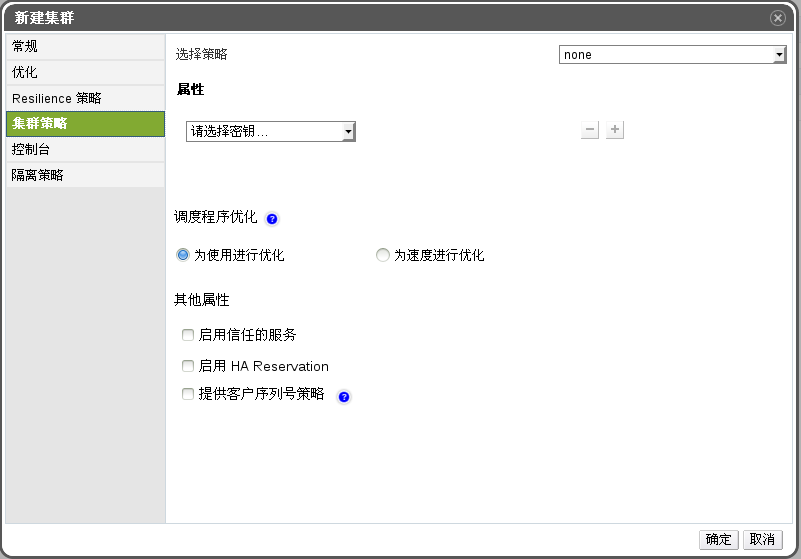
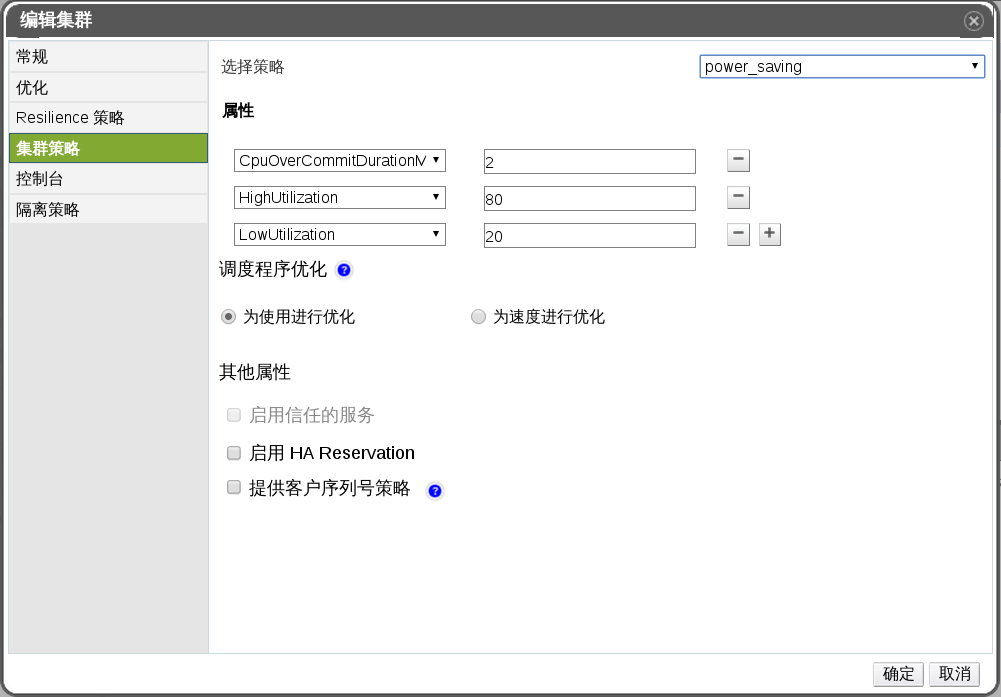
admin guide: review chapter: 集群

diff --git a/administration-guide/集群/优化设置介绍.md b/administration-guide/集群/优化设置介绍.md
@@ -1,16 +1,19 @@
 # 优化选项解释
 
-内存页共享允许虚拟机使用的内存可达到其物理保证内存的两倍之多，这是利用一些其它虚拟机空闲出来的内存实现的。当然想要实现这样的功能是有条件的，那就是在 EayunOS 企业级虚拟化环境中，不是所有的虚拟机都同时处于满负荷运转的状态，这样才会允许那些暂未使用的内存分配到一个特定虚拟机中。
+内存页共享允许虚拟机通过使用其它虚拟机未在使用的内存，使得这个虚拟机可以使用高达为其分配的内存的两倍之多。当然想要实现这样的功能是有条件的，那就是在 EayunOS 企业级虚拟化环境中，不是所有虚拟机都同时处于满负荷运转的状态，这样才会允许那些暂未使用的内存分配到一个特定虚拟机上。
 
-CPU 线程处理允许主机运行这样的虚拟机，即虚拟机的 CPU 内核数多于这个主机内核数，这主要用于CPU负载不高的情形，在某种程度上可以降低大量的需要运行的虚拟机对硬件的要求。当然也需要考虑到虚拟机所运行的主机 CPU 的拓朴结构，以免出现不能正常运行的情况，尤其是虚拟机的 CPU 内核数量介于主机 CPU 内核数量和主机线程数量之间。
+CPU 线程处理技术允许主机上运行的虚拟机的 CPU 内核总数多于这台主机的内核总数，这个技术对那些不需要大量使用 CPU 资源的环境非常有用，
+并允许大量的即将运行的虚拟机能够减小他们对硬件的要求。这个技术还可以让虚拟机运行一些在一般情况下无法实现的 CPU 的拓朴结构，尤其是在虚拟机的处理器的内核数量多于主机 CPU 内核数量且少于主机线程数量的时候。
 
 ![集群图示](../images/EayunOS_Optimization_Settings.png)
 
-下面的表格是在*新建集群*或*编辑集群*窗口中*优化*tab下设置详细描述：
+下面的表格描述了**新建集群**或**编辑集群**窗口中**优化**标签中的设置。
 
-|填充项|描述/操作|
-|------|---------|
-|内存优化|-   *无 - 禁用内存页面共享*:即不使用 内存共享。<br/><br/>-   *用于服务器负载 - 设置页面共享为 150%*<br/>    在集群的每台主机设置内存可共享上限为150%.<br/><br/>-   *用于桌面负载 - 设置页面共享为 200%*<br/>    在集群的每台主机设置内存可共享上限为200%.<br/><br/>|
-|CPU线程|选择*将线程用作内核*多选框，则表示可以 让虚拟机拥有的总的CPU core数量大于主机所拥有的数量。<br/><br/>主机的超线程可以被虚拟机当作core来使用，例如，一台主机拥有 12个core的超线程x2的CPU，则共24个超线程，那么虚拟机就可拥有 24个core，但是带来的后果就是，CPU负载的计算算法将是平时的2 倍。|
-|内存Balloon|选择*启用内存 Balloon 优化*多选框，则表示 在此集群中所有的主机激活内存超分配，一旦此选项生效，则内存超 分配管理程序（MoM）就会启动Bollooning，Bollooning本身会有为每 个虚拟机赋予一预先设定的值。<br/><br/>Bollooning运行的前提是，运行在虚拟机客户操作系统里的驱动必须是 工作的，在OVIRT中，除非用户手动删除，默认创建的虚拟机都会有 Bollooning的设备。<br/><br/>当设置完成后，当集群内的主机状态变为*up*时， 都会更新Bolloon的策略。<br/><br/>另外需要特别强调的一点是，在某些场景下bollooning和KSM会有冲突。 大多数情况下，MoM会尝试调整bolloon大小将冲突降至最小，但还是有 bollooning会引起虚拟机性能的次优，这里建立管理员慎用bollooning 优化。|
-|KSM 控制|当选择了*启用 KSM*勾选框时能够在必要时使用 MoM 运行内核内存页共享（KSM），并且在当内存页共享产出的空余内存所获得的好处大于因此而要增加的CPU负担时也会运行。|
+**优化设置**
+
+| **填充项** | **描述/操作** |
+| ---------- | ------------- |
+| **内存优化** |-   **无 - 禁用内存页面共享**：禁用内存页共享。<br/><br/>-   **用于服务器负载 - 设置页面共享为 150%**：将内存页共享的阀值设置为每个主机系统内存的 150%。<br/><br/>-   **用于桌面负载 - 设置页面共享为 200%**：将内存页共享的阀值设置为每个主机系统内存的 200%。<br/><br/>|
+| **CPU 线程** | 选择**将线程用作内核**复选框，则表示允许主机运行 CPU 内核总数多于主机 CPU 内核数量的虚拟机。<br/><br/>暴露的主机线程可以被当作虚拟机能够使用的 CPU 内核。例如，一个 24 核的系统，且每个 CPU 内核有 2 个线程，即这个系统共有48 个线程，也就是说其上运行的每个虚拟机都可以有 48 个 CPU 内核。那么虚拟机就可拥有 24个core，但是带来的后果就是，CPU负载的计算算法将是平时的2 倍。|
+| **内存 Balloon** | 选择**启用内存 Balloon 优化**复选框表示允许运行在集群中主机上的虚拟机可以有“内存过量使用”的功能。当该选项启用后  Memory Overcommit Manager (MoM) 会在情况允许的情况下开启“ 气球操作” (Ballooning)，它的上限是每台虚拟机所具有的内存大小。<br/><br/>Bollooning 运行的前提是，虚拟机需要有气球 (balloon) 设备以及相应的驱动器。在版本在 3.2 及以上的集群中，每台虚拟机都会有气球设备，除非您手动删除了它。该集群中的主机状态变为 **Up** 时，它就会接收到一个气球策略更新。<br/><br/>另外需要特别强调一点，在某些场景下 bollooning 和 KSM 可能会有冲突。一旦冲突发生了，MoM 会尝试调整 balloon 的大小来减小冲突。另外，在其它的场景下 ballooning 还可能会引起虚拟机性能的下降。因此我们建议您谨慎使用 ballooning 优化功能。 |
+| **KSM 控制** |选择**启用 KSM** 复选框将会允许 MoM 在必要的情况下且运行 Kernel Same-page Merging（KSM），还有如果 KSM 节约内存的好处要远大于为此付出的消耗 CPU 的代价时，也要运行 KSM。 |

diff --git a/administration-guide/集群/集群常规配置的解释.md b/administration-guide/集群/集群常规配置的解释.md
@@ -2,23 +2,23 @@
 
 ![新建集群窗口](../images/EayunOS_New_Cluster_Window.png)
 
-当输入非正确的字段，会在用户点击*确定*按钮时出错, 出错
-的部分会显示为菊黄色的，且无法进行下一步的操作，通常情况下会提示预期
-值或值范围不对。
+**新建集群**
 
-下面的表格是在*新建集群*或*编辑集群*窗口中*通用*tab下设置详细描述：
+下面的表格描述了**新建集群**或**编辑集群**窗口中**常规**标签下的设置：
 
-|填充项|描述/操作|
-|------|---------|
-|数据中心|集群将加入的数据中心。|
-|名称|集群的名称，可包含40个字符，尽量保证是独一无 二的，可以是任意的大、小写字母，数字，短横线， 下划线。|
-|描述|集群的详细描述，OVIRT建议填写但不是强制性的。|
-|CPU名称|集群的CPU类型，可从下列中选出：<br/>-   Intel Conroe Family<br/><br/>-   Intel Penryn Family<br/><br/>-   Intel Nehalem Family<br/><br/>-   Intel Westmere Family<br/><br/>-   Intel SandyBridge Family<br/><br/>-   Intel Haswell<br/><br/>-   AMD Opteron G1<br/><br/>-   AMD Opteron G2<br/><br/>-   AMD Opteron G3<br/><br/>-   AMD Opteron G4<br/><br/>-   AMD Opteron G5<br/><br/>集群内所有主机必须运行在同一型号的CPU（Intel或AMD）。 且一旦集群建立后不允许变动。CPU的类型选择尽可 能的选择低代的，比如，一个拥有*Intel Haswell*的主机是可以加入到类型为*Intel Westmere Family*的集群中的，相反，*Intel Nehalem Family*就不可以，且只能发挥低代 的CPU的特性。|
-|兼容版本|OVIRT的版本号，你可以从以下选择：<br/>-   3.0<br/><br/>-   3.1<br/><br/>-   3.2<br/><br/>-   3.3<br/><br/>用户不可以将集群的版本设置低于所在数据中心的版本。|
-|启用Virt服务|如果这个单选框选中，运行在此集群下的主机被用于运行 虚拟机。|
-|启用Gluster服务|如果选中此单选框，运行在此集群下的主机将用于OVIRT\_STORAGE 的节点，而不是运行虚拟机。且用户不能将OVIRT Hypervisor Node加入到此集群中。|
-|导入现有的gluster集群配置|此可选项仅用于当*启用Gluster服务* 被选中时，此属性可以让用户导入一个已有的gluster集群， 且其所包含的所有主机。<br/><br/>下列属性是要导入主机时填写的内容：<br/><br/>-   *地址*:输入Gluster主机的IP 地址或FQDN的名称。<br/><br/>-   *SSH指印*:OVIRT会尝试取得主机的<br/>    指印，以确保用户连接的是真需要连接的主机<br/><br/>-   *密码*:输入主机的root用户密码。<br/><br/>|
+**常规集群设置**
 
-*请参考*.
-?
+| 项 | 描述/操作 |
+| -- | --------- |
+| **数据中心** | 集群所在的数据中心。 |
+| **名称** | 集群的名称。这个文本框最多可包含 40 个字符且要保证是独一无二的名称，可以是任意的大小写字母，数字，短横线和下划线的组合。 |
+| **描述** | 集群的描述。我们建议您填写，但这并不是强制性的。 |
+| **CPU 名称** | 集群的 CPU 类型，可从下列中选出（顺序：由高到低）：<br/><br/>-   Intel Conroe Family<br/><br/>-   Intel Penryn Family<br/><br/>-   Intel Nehalem Family<br/><br/>-   Intel Westmere Family<br/><br/>-   Intel SandyBridge Family<br/><br/>-   Intel Haswell<br/><br/>-   AMD Opteron G1<br/><br/>-   AMD Opteron G2<br/><br/>-   AMD Opteron G3<br/><br/>-   AMD Opteron G4<br/><br/>-   AMD Opteron G5<br/><br/>一个集群内的所有主机必须使用相同类型的 CPU (Intel 或 AMD); 一旦集群被成功创建后，其 CPU 类型将不允许变动。关于 CPU 的类型，请您尽可能选择低级别的主机的 CPU 类型。例如，一个 **Intel SandyBridge** 的主机可以附加到一个 **Intel Penryn** 的集群中的，相反，**Intel Conroe** 的主机则不可以附加到 **Inter Penryn** 中。如果集群中的主机的 CPU 类型不同，那么只有所有类型都具有的 CPU 指令集才可以被使用。 |
+| **兼容版本** | EayunOS 企业级虚拟化的版本号，你可以从以下选择：<br/><br/>-   3.0<br/><br/>-   3.1<br/><br/>-   3.2<br/><br/>-   3.3<br/><br/>-   3.5<br/><br/>您不能选择比数据中心的版本更低的版本。 |
+| **启用Virt服务** | 如果您选择了此单选框，在该集群下的主机会被用于运行虚拟机。 |
+| **启用Gluster服务** | 如果您选择了此单选框，那么运行在该集群下的主机会作为 EayunOS 存储服务器节点，而不是用来运行虚拟机。且用户不能将 EayunOS 企业级虚拟化宿主机添加到该集群中。 |
+| **启用设置虚拟机维护的理由** | 如果您选择了这个单选框，那么如果您想要对虚拟机进行 **关机** 或者 **断电** 操作的话，您必须写明您要这个做的原因，以便其它管理员可以理解您的行为。 |
+| **所选随机数生成器的源** | 集群中的宿主机可以将随机数生成器提供给虚拟机使用。**/dev/random** 可以生成高随机性的公钥或一次性密码本。如果熵池（Linux 内核维护了一个熵池用来收集来自设备驱动程序和其它来源的环境噪音）空了，对 **/dev/random** 的读操作将会被阻塞，直到收集到了足够的环境噪声为止，它是真正的随机数发生器。对于 KVM 虚拟机来说，存在一个半虚拟化设备 virtio-rng 作为硬件随机数产生器。virtio-rng 设备会读取 Host 的随机数源并且填充到虚拟机的熵池中。通常情况下使用 **/dev/random** 作为输入源。当 Host 系统中存在 hwrng 的情况下你可以用 **/dev/hwrng** 来作为 virtio-rng（对于 KVM 虚拟机来说，存在一个半虚拟化设备 virtio-rng 作为硬件随机数产生器）的输入源。  |
 
+![change_cpu.png](../images/change_cpu.png)
+**修改集群 CPU 级别**

diff --git a/administration-guide/集群/集群策略介绍.md b/administration-guide/集群/集群策略介绍.md
@@ -12,18 +12,18 @@
 
 **集群策略标签下的属性**
 
-|填充项/标签|描述/操作|
-|-----------|---------|
-|none|将策略设置为 **None**，即表示不在主机间采用任何负载或电源策略。此为默认选项。|
-|evenly_distributed|在集群的所有主机中平均分配 CPU 处理负载。如果一台主机达到了其预先定义的服务级别，那么负载在其上的虚拟机将无法开启。|
-|power_saving|分配CPU的处理负载在可用主机，以减少对没有得到充分利 用主机的功耗。当主机的CPU负载低到预设的下限值时，且 超出预定义的时间间隔，则将这台主机中的所有虚拟机迁移 到其它主机中，此主机可以关闭电源。。当主机的 负载达到预先定义的上限值时，就无法在此主机启动虚拟机。|
+| **填充项/标签** | **描述/操作** |
+| --------------- | ------------- |
+| **None** | 将策略设置为 **None**，即表示不在主机间采用任何负载或电源策略。此为默认选项。|
+| **Evenly_distributed** | 在集群的所有主机中平均分配 CPU 处理负载。如果一台主机达到了其预先定义的服务级别，那么负载在其上的虚拟机将无法开启。|
+| **Power_saving** | 分配CPU的处理负载在可用主机，以减少对没有得到充分利 用主机的功耗。当主机的CPU负载低到预设的下限值时，且 超出预定义的时间间隔，则将这台主机中的所有虚拟机迁移 到其它主机中，此主机可以关闭电源。。当主机的 负载达到预先定义的上限值时，就无法在此主机启动虚拟机。|
 |vm_evenly_distributed|以虚拟机的数量为权值在集群中平均分配运行的虚拟机。<br/><br/>- *HighVmCount*：设置每一台主机上面能够运行的虚拟机数量。当运行的虚拟机数量超过该值将视该台主机为过载。<br/><br/>- *MigrationThreshold*：定义了虚拟机将会执行迁移的虚拟机数量缓冲区域。该区域的边界由负载最高与负载最低的主机所运行的虚拟机数量定义，当集群内所有的主机所运行的虚拟机数量在该缓冲区域内时，该集群被视为平衡状态。<br/><br/>- *SpmVmGrace*：定义了当主机为 SPM 时，计算集群策略时需要给该主机空余的虚拟机的个数，这样，SPM 主机将比其它主机有相对低的负载，所以，该值定义了 SPM 主机能够运行的虚拟机比非 SPM 主机能运行的虚拟机的数量少的个数。<br/><br/>当集群中有任何一台主机运行了比*HighVmCount*数量多的虚拟机，或者任何一台主机运行的虚拟机的数量不在*MigrationThreshold*缓冲屈与范围内时，该集群被视为不平衡的。|
-|CpuOverCommitDurationMinutes|在集群策略生效之前，主机中运行的负载超过或低于预设值的 时间间隔(以分钟为单位）。最大99分钟。在规定的时间间隔内 可以防止由于临时高峰负载而启动集群策略，从而导致作出不 必要的迁移。|
-|HighUtilization|CPU的利用百分比。如果主机的CPU负载运行在预设值或之上，且超出 预订时间间隔，OVIRT管理程序会迁移虚拟机到集群中其他 主机中，直到CPU的负载低于这个预设值。|
-|LowUtilization|CPU的利用百分比。如果主机的CPU负载低于这个预设值，且超出预订 时间间隔，OVIRT管理程序会将虚拟机迁移到集群中其他主机， 管理程序不会关闭此主机，管理员必须手动去关闭。|
-|调度程序优化|基于主机的 权值/顺序 作调度优化。<br/><br/>- *Optimize for Utilization*：在调度程序中包含权重模块以能够选择最合适的主机。<br/><br/>- *Optimize for Speed*：当有多余10个集群优化请求的时候跳过调度程序的权重模块。|
-|启用信任的服务|是否激活与OpenAttestation服务的集成。在激活之前，请使用*engine-config*工具配置OpenAttestation服务的细节。|
-|启用HA Reservation|允许使用管理端监控集群的负载以便能让高科用的虚拟机能运行。管理端能够确保集群内有合适空余资源的主机存在，以防在高可用虚拟机所运行的主机意外故障时能够有迁移到该主机中去。|
+| **CpuOverCommitDurationMinutes** |在集群策略生效之前，主机中运行的负载超过或低于预设值的 时间间隔(以分钟为单位）。最大99分钟。在规定的时间间隔内 可以防止由于临时高峰负载而启动集群策略，从而导致作出不 必要的迁移。|
+| **HighUtilization** |CPU的利用百分比。如果主机的CPU负载运行在预设值或之上，且超出 预订时间间隔，OVIRT管理程序会迁移虚拟机到集群中其他 主机中，直到CPU的负载低于这个预设值。|
+| **LowUtilization** |CPU的利用百分比。如果主机的CPU负载低于这个预设值，且超出预订 时间间隔，OVIRT管理程序会将虚拟机迁移到集群中其他主机， 管理程序不会关闭此主机，管理员必须手动去关闭。|
+| **调度程序优化** |基于主机的 权值/顺序 作调度优化。<br/><br/>- *Optimize for Utilization*：在调度程序中包含权重模块以能够选择最合适的主机。<br/><br/>- *Optimize for Speed*：当有多余10个集群优化请求的时候跳过调度程序的权重模块。|
+| **启用信任的服务** |是否激活与OpenAttestation服务的集成。在激活之前，请使用*engine-config*工具配置OpenAttestation服务的细节。|
+| **启用HA Reservation** |允许使用管理端监控集群的负载以便能让高科用的虚拟机能运行。管理端能够确保集群内有合适空余资源的主机存在，以防在高可用虚拟机所运行的主机意外故障时能够有迁移到该主机中去。|
 |<font color="red">提供客户序列号策略</font>||
 > **Note**
 >

diff --git a/administration-guide/集群/在数据中心或者集群中创建一个新的逻辑网络.md b/administration-guide/集群/在数据中心或者集群中创建一个新的逻辑网络.md
@@ -1,34 +1,38 @@
 # 在数据中心或者集群中创建一个新的逻辑网络 
 
 **摘要**<br/>
-以下步骤为在数据中心或者集群中创建和定义逻辑网络。
+在一个数据中心或者一个数据中心下的集群中创建一个逻辑网络并定义它的使用。
 
-使用**数据中心**或**集群**资源列表 或树形结构或搜索功能，选中结果列表。
+**在一个数据中心或者集群中创建一个新的逻辑网络**
 
-点击*逻辑网络*,会自动列出现存在的逻辑网络。
+1. 使用**数据中心**或**集群**资源列表，树形模式或搜索功能，在结果列表中找出并选择一个数据中心或者一个集群。
 
-在**数据中心**的详细列表中，点击**新建** 打开**新建逻辑网络**窗口；在**集群**的详细列表中，点击*添加网络*打开*新建逻辑网络*。
+2. 点击详细面板中的**逻辑网络**标签，会自动列出现存在的逻辑网络。
 
-![负载均衡策略设置](../images/EayunOS_Create_New_Logic_Network.png)
+3. 如果您在第 2 步中选择了**数据中心**，那么请在该详情面板中，点击**新建**，会弹出**新建逻辑网络**窗口；如果您在第 2 步中选择了**集群**，那么请在该详情面板中，点击**添加网络**，会弹出**新建逻辑网络**。
 
-为逻辑网络输入*名称*,*描述*, *注释*。
+4. 为逻辑网络输入**名称**，**描述**和 **注释**。
 
-在*导出*项中，选择*在外部供应商上创建*,在*外部供应商*的下拉列表框中选择已
-经建立好的外部供应商，并输入*网络标签*。
+5. 在**导出**项中，选择**在外部供应商上创建**复选框，以便在外部供应商上创建逻辑网络。从**外部供应商**的下拉菜单中选择**外部供应商**。
 
-选择*启用 VLAN 标签*,*虚拟机网络* ,*覆盖 MTU*,以激活对应的属性。
+6. 在 **Physical Network** 复选框旁边的文本框中输入一个映射值。为正在执行的网络对象上找出其对应的物理网络。OpenStack 网络 API 不能为获取可用的物理网络列表暴露出任何设备。作为示例，在 Open vSwitch 插件中，这是一个象征性的名字，它通过 Open vSwitch 插件的配置文件将其映射到每个计算节点的具体网桥上。该选项只有在勾选了在外部供应商上创建这个复选框之后，才可用。
 
-在*集群*标签下，选择欲将网络分配给某个集群，用户
-也可指定此逻辑网络是必需的。
+7. 在**网络参数**项中的**网络标签**复选框旁边的文本框中输入相应的值。允许您为网络指定一个新的标签或者从一个已经存在的并负载在主机网络接口上的标签中选择其中一个。如果您选择了一个已经存在的标签，逻辑网络会被自动分配给带有这个标签的所有主机网络接口。该选项在勾选了在外部供应商上创建这个复选框之后是不可用的。
 
-在*配置集*标签下，为逻辑网络分配*vNIC profiles*。
+8. 选择**启用 VLAN 标签**，**虚拟机网络**和**MTU**，来激活这些选项。
 
-点击*确定*。
+9. 在**集群**标签下，选择欲将网络分配给的那个集群，您还可以指定该逻辑网络是否是必需网络。
 
-*结果*.
-用户已经定义所谓前提项的逻辑网络资源，此时可以给此集群中的主机添加此资源。
+10. 如果您在**常规**选项卡中选择了**导出**的**在外部供应商上创建**这个复选框，那么您会在左边的标签栏中发现多了一个**子网**标签。点击**创建子网**，并在输入相应的**名称**，**CIDR** 并为逻辑网络将要提供的子网选择一个 **IP 版本**。
+
+11. 在 **vNIC 配置集**标签下，为必需的逻辑网络分配 **vNIC 配置集**。
+
+12. 点击**确定**。
+
+**结果**<br/>
+您在数据中心或集群中定义了一个逻辑网络资源。如果您为这个逻辑网络加了标签，它将会被自动加入到所有带有这个标签的主机网络接口中。
 
 > **Note**
 >
-> 当新建一逻辑网络或者是修改现有的逻辑网络用于显示网络时，原来使用此网络的
-> 虚拟机必须重启后，此网络才可用。
+>如果您创建了一个新的逻辑网络或者对一个已经存在的且作为显示网络的逻辑网络做一些更改。任何一个正在运行的且使用了该网络的虚拟机必须要在>网络变为可用或者更改生效之前即行重启操作。
+

diff --git a/administration-guide/集群/为一个集群管理系统权限.md b/administration-guide/集群/为一个集群管理系统权限.md
@@ -1,31 +1,19 @@
 # 集群下的系统管理权限
 
-作为*超级用户*的系统管理员，掌管着整个管理门户的方方面面。
-也包括指定一些管理的角色给其他用户，得到授权的用户有了受限的管理角色，仅对
-指定的资源有权限操作，例如：一个*DataCenterAdmin*角色拥有
-的管理分配权仅限于他被分配到的数据中心，一个*ClusterAdmin*
-角色拥有的管理分配权仅限于他被分配到的集群。
+作为 **SuperUser**，系统管理员掌管着管理门户的各个方面。更多具体的管理角色可以分配给其他用户。这些有一定限制的管理员角色可以为用户授予将他们限制在一个具体资源中的管理权限。例如，一个具有 **DataCenterAdmin** 角色的用户具有对已分配的除与存储域有关的内容以外的数据中心中的所有内容进行操作的权限，且一个具有 **ClusterAdmin** 角色的用户对已分配的集群具有管理员权限。
 
-集群管理员是数据中心唯一指定的管理员角色，应用于当一个数据中心拥有多个集群，而且
-每个集群都需要指定一名特定的管理员。*ClusterAdmin*角色的继承
-模式：某用户被赋予某集群的集群管理员角色，那么他拥有操作此集群下所有的对象。
-在OVIRT管理员门户顶部点击*配置*按钮，可以分配一集群管理员
-角色，此角色可以操作整个虚拟化环境下所有集群。
+一个集群管理员仅对特定的集群具有管理员权限。这一点对于多集群的数据中心非常有用处，因为每个集群都需要一个系统管理员。**ClusterAdmin** 角色具有分级模式：一个被赋予了集群管理员角色的用户可以管理集群中的方方面面。点击标题栏中的**配置**按钮来为环境的所有集群配置一个集群管理员。
 
 集群管理员角色拥有如下操作权限：
 
--   创建和删除集群
+* 创建并删除相关集群。
 
--   在此集群下添加和删除主机，虚拟机，以及桌面池。
+* 在该集群下添加和删除主机，虚拟机和池。
 
--   编辑虚拟机的用户权限。
+* 为该集群下的虚拟机编辑用户权限。
 
 > **Note**
 >
-> 只能为已经存在的用户分配角色和权限。
+> 您只能为已经存在的用户分配角色和权限。
 
-当然OVIRT也支持重新定义系统默认的角色权限，可通过删除系统自带的管理员，然后在重新
-添加的方式来改变。
-
-*请参考：*.
-?
+如果您要更换一个系统管理员，您需要删除已经存在的系统管理员并添加一个新的系统管理员。

diff --git a/administration-guide/集群/弹性策略介绍.md b/administration-guide/集群/弹性策略介绍.md
@@ -1,21 +1,17 @@
-# 弹性策略的解释
+# Resilience 策略的解释
 
-弹性策略是根据主机宕机事件来设置虚拟机迁移的规则的意思。在同一集群的
-前提下，运行在突然宕机或者处于维护模式的主机上的虚拟机，会迁移到其
-它主机中, 具体迁移还依赖于集群的策略。
+Resilience 策略设置了在主机出现问题时虚拟机进行迁移的策略。如果一台主机发生了非预期关机或进入了维护模式的时候，那么其上运行的虚拟机会被迁移到本集群的其它主机上；具体迁移还依赖于集群策略。
 
 > **Note**
 >
-> 虚拟机迁移是严重依赖网络的。例如，一次将10多台虚拟机迁移到
-> 另外的主机，不仅会迁移很长的时间，还会影响到其他的性能，所以
-> 选择一个合适的策略。保守的做法就是不做任何的迁移，当然，如果用户
-> 拥有很多虚拟机，而有一些主机确实是负载非常的高（或重要），那么选
-> 择仅迁移配置了高可用属性的虚拟机也是个不错的选择。
+> 虚拟机迁移是一个网络密集型操作。例如，如果一个主机上运行了 10 多台虚拟机，把这些虚拟机迁移到其它主机上的操作会消耗大量的时间和资源。所以，您需要选择一个合适的策略来满足您的需求。如果您更青睐保守的做法，那就不做任何的虚拟机迁移，当然，如果您拥有很多虚拟机，但只有几台虚拟机运行着关键的工作，您可以设置迁移策略来让那些运行了较关键工作的虚拟机进行迁移。
 
-下面的表格是在*新建集群*或*编辑集群*窗口中*弹性策略*tab下设置详细描述：
+下面的表格是在**新建集群**或**编辑集群**窗口中**弹性策略**标签下设置详细描述：
 
-|填充项|描述/操作|
-|------|---------|
-|迁移虚拟机|根据预先定义的优先级顺序迁移全部的虚拟机。|
-|仅迁移高可用虚拟机|仅迁移高可用虚拟机，以防止超载其他主机。|
-|不迁移虚拟机|防止虚拟机被迁移|
+**弹性策略设置**
+
+| **项** | **描述/操作** |
+| ------ | ------------- |
+| **迁移虚拟机** | 根据预先定义的优先级顺序来迁移所有的虚拟机。 |
+| **只迁移高可用虚拟机** | 只迁移高可用虚拟机，以避免其它主机的负载。 |
+| **不迁移虚拟机** | 不让虚拟机进行迁移。 |

diff --git a/administration-guide/集群/在一个集群中设置主机的负载与电源管理策略.md b/administration-guide/集群/在一个集群中设置主机的负载与电源管理策略.md
@@ -1,1 +1,29 @@
 # 在一个集群中设置主机的负载与电源管理策略
+
+**概述**<br/>
+
+集群策略允许您指定可接受的 CPU 使用值（最高值和最低值），还可以设置 CPU 使用值超出可接受范围时会发生的事件。定义集群策略将会启动集群中主机间自动进行均衡负载的功能。
+
+如果主机的 CPU 使用值超过了 **HighUtilization** 的值，系统会将该台主机上的虚拟机到其它主机上，从而降低 CPU 负载。
+
+如果主机的 CPU 使用值低于 **LowUtilization** 的值，系统会将该台主机上运行的所有的虚拟机迁移到其它的主机上，从而可以关闭这台主机。如果哦系统再次需要这台主机的时候，它会被再次启动。
+
+**为主机设置负载和电源管理策略**
+
+1. 使用资源标签页，树形模式或搜索功能来查找并选择结果列表中的集群。
+
+2. 点击**编辑**按钮，弹出**编辑集群**窗口。
+![setting load and power managerment](../images/Setting_load_and_power_managerment.png)
+**编辑集群策略**
+3. 选择以下策略中的一个：
+* **none**
+* **evenly_distributed** - 在 **HighUtilization** 旁边的文本框中输入虚拟机需要进行迁移的 CPU 使用率的百分比值。在 **CpuOverCommitDurationMinutes** 旁边的文本框中输入一个时间间隔的值，当 CPU 的使用率超出了设定值时，系统会等待您设置的时间后才会触发相关策略中的操作。
+* **power saving** - 在 **HighUtilization** 旁边的文本框中输入主机被认为是处于低利用率状态的 CPU 使用率的百分比值。在 **HighUtilization** 旁边的文本框输入主机需要进行迁移的 CPU 使用率的百分比值。
+* **vm_evenly_distributed** - 在 **HighVmCount** 旁边的文本框中输入虚拟机数量的最大值。在 **MigrationThreshold** 旁边的文本框中输入一个用于迁移缓冲区的大小。在 **SpmVmGrace** 旁边的文本框中输入为 SPM 主机预留的虚拟机数量。
+
+4. 如果您正在使用一个 OpenAttestation 服务器来验证您的主机，并使用 **engine-config** 工具对服务器进行了设置，那么请您选择 **启用信任的服务** 复选框。
+
+5. 点击**确定**。
+
+**结果**<br/>
+您已经成功的对集群进行了编辑。

diff --git a/administration-guide/集群/创建集群.md b/administration-guide/集群/创建集群.md
@@ -17,7 +17,7 @@
 
 6. 如果您希望这个集群是作为虚拟环境使用的，那么请选择**启用 Virt 服务**；如果您希望这个集群要提供 Gluster 节点，那么请选择**启用 Gluster 服务**。需要注意的是您不能将 EayunOS 企业级虚拟化宿主机添加到一个支持 Gluster 服务的集群中。
 
-7. **启用设置虚拟机维护的理由** 允许您在将主机切换到维护模式的时候为此操作写明原因，以便其他管理员知道这么做的原因。
+7. 如果您选择了**启用设置虚拟机维护的理由**单选框，那么如果您想要对虚拟机进行 **关机** 或者 **断电** 操作的话，您必须写明您要>这个做的原因，以便其它管理员可以理解您的行为。
 
 8. 为集群选择 **所需的随机数生成器的源：**，选择复选框 **/dev/random** 或 **/dev/hwrng**。 
 
@@ -29,7 +29,7 @@
 
 12. 点击**确定**按钮完成创建集群操作，这时会弹出 **新建集群-引导操作**。
 
-13. **新建集群-引导操作**窗口会列出所有配置集群应该配置的选项。您可以通过点击**以后再配置**按钮，选择暂不配置，还可以现在就配置这些选项。您可以在任何时候通过选择集群并点引导操作键来对集群进行配置。
+13. **新建集群-引导操作**窗口会列出要为集群配置的所有实体。您可以通过点击**以后再配置**按钮，选择暂不配置，还可以现在就配置这些实体。您可以在任何时候通过选择集群并点击引导操作键继续对集群进行配置。
 
 **结果**<br/>
 新的集群在 EayunOS 企业级虚拟化环境中添加完毕。

diff --git a/administration-guide/集群/管理网络窗口设置解释.md b/administration-guide/集群/管理网络窗口设置解释.md
@@ -1,12 +1,14 @@
 # 管理网络窗口设置解释
 
-下面列表详细描述了*管理网络*窗口的设置。
+下面的表格详细描述了**管理网络**窗口的设置。
 
-|填充项|描述/操作|
-|------|---------|
-|分配所有|将逻辑网络分配到集群中所有的主机。|
-|所有必需的|逻辑网络在挂接到集群中所有的主机中是活动状态中的网卡 时为可操作的。|
-|虚拟机网络|用于虚拟机流量的逻辑网络|
-|显示网络|用于虚拟机SPICE协议和虚拟机控制流量的逻辑网络|
-|迁移网络|用于虚拟机或存储迁移时的逻辑网络|
+**管理网络设置**
+
+| **项** | **描述/操作** |
+| ------ | ------------- |
+| **分配给所有主机** | 将该逻辑网络分配到集群中所有的主机上。 |
+| **必需的** | 标记为“必需的”逻辑网络必须保持一直正常运行，这时因为和它们相关的主机需要这些网络才能正常运行。如果一个被标记为“必需的”网络因为一些原因而无法正常工作的话，那么和它们相关联的主机也无法正常工作。 |
+| **虚拟机网络** | 一个标记为“虚拟机网络”的逻辑网络是用来处理与虚拟机操作相关的网络流量。 |
+| **显示网络** | 一个标记为“显示网络”的逻辑网络是用来处理与 SPICE 和虚拟网络控制器相关的网络流量。 |
+| **迁移网络** | 一个标记为“迁移网络”的逻辑网络是用来处理虚拟机和存储迁移时的网络流量。 |
 

diff --git a/administration-guide/集群/改变集群的兼容性版本.md b/administration-guide/集群/改变集群的兼容性版本.md
@@ -1,0 +1,30 @@
+# 改变集群的兼容版本
+
+**概述**<br/>
+EayunOS 企业级虚拟化集群有一个兼容版本。集群兼容版本决定了该集群中的所有主机所支持的 EayunOS 企业级虚拟化的功能。该集群兼容版本值会根据集群中最低的主机操作系统的版本进行设置。
+
+> **注意**
+>
+> 为了改变集群兼容版本，首先您必须升级您集群中的所有主机到一定的阶段，从而满足您想要的这个兼容版本值。
+
+**改变集群兼容版本**
+1. 以管理员的身份登录到管理门户。默认情况下的用户名是 **admin**。
+
+2. 点击**集群**标签。
+
+3. 在显示的列表中选择您想要改变的集群。如果集群列表太长以至于很难找到您想要编辑的集群，您可以执行一个搜索操作来定位您想要编辑的那个集群。
+
+4. 点击**编辑**按钮。
+
+5. 将**兼容版本**改成您想要的值。
+
+6. 点击**确定**，弹出**修改集群兼容性版本**确认窗口。
+
+7. 点击**确定**，来确认您做出的更改。
+
+**结果**<br/>
+您已经成功的编辑了集群的兼容性版本。一旦您更新了一个数据中心下的所有集群的兼容性版本值，您就可以对数据中心的兼容版本值进行更新。
+
+> **警告**
+>
+> 升级兼容性版本还要升级所有属于该数据中心的存储域。如果您将兼容版本值从 3.1 以前的版本升级为一个更高的版本，那些使用 3.1 以前版本的存储域将无法使用。

diff --git a/administration-guide/集群/为资源分配管理员或用户角色.md b/administration-guide/集群/为资源分配管理员或用户角色.md
@@ -1,20 +1,21 @@
 # 为资源分配管理员或用户角色
 
-*摘要*.
-为资源分配管理员或用户角色，容许用户访问或管理这些资源。
+**摘要**<br/>
+为资源分配管理员或用户角色以容许用户访问或管理这个资源。
 
-使用资源列表或树形结构或搜索功能，找到对应的资源项，选择相应的资源。
+**为一个资源分配角色**
 
-在详细面板中选择*权限*，这时会看到已经分配的用户，
-以及用户的角色，包括从那里继承来的权限。
+1. 使用资源列表，树形模式或搜索功能，在结果列表中找出并选择相应的资源。
 
-点击*添加*，会打开*为用户添加权限* 窗口。
+2. 点击详情面板中的**权限**，列出已为该资源分配的用户，用户角色和用户继承的权限。
 
-在*搜索*框中输入已存在用户的名字，然后点击*执行*,在下方的输出结果中选择用户。
+3. 点击*添加*，会打开*为用户添加权限* 窗口。
 
-在*要分配的角色*的下拉列表中选择角色。
+4. 在*搜索*框中输入已存在用户的名字，然后点击*执行*,在下方的输出结果中选择用户。
 
-点击*确定*完成角色分配，并关闭窗口。
+5. 在*要分配的角色*的下拉列表中选择角色。
+
+6. 点击**确定**完成角色分配，并关闭窗口。
 
 *结果*.
 成功为用户分配了角色，此用户继承了内置角色操作此资源的权限。

diff --git a/administration-guide/SUMMARY.md b/administration-guide/SUMMARY.md
@@ -14,7 +14,6 @@
    * [在 EayunOS 企业级虚拟化中进行搜索](使用管理员门户/在 EayunOS 企业级虚拟化中进行搜索.md)
    * [把搜索条件保存为书签](使用管理员门户/把搜索条件保存为书签.md)
    * [配置窗口](使用管理员门户/配置窗口_t.md)
-       * [配置窗口](使用管理员门户/配置窗口.md)
        * [角色](使用管理员门户/角色.md)
            * [创建一个新的角色](使用管理员门户/创建一个新的角色.md)
            * [编辑或复制一个角色](使用管理员门户/编辑或复制一个角色.md)
@@ -70,7 +69,6 @@
            * [隔离策略介绍](集群/隔离策略介绍.md)
        * [编辑资源](集群/编辑资源.md)
        * [在一个集群中设置主机的负载与电源管理策略](集群/在一个集群中设置主机的负载与电源管理策略.md)
-       * [添加主机窗口的设置解释](集群/添加主机窗口的设置解释.md)
        * [在数据中心或者集群中创建一个新的逻辑网络](集群/在数据中心或者集群中创建一个新的逻辑网络.md)
        * [删除集群](集群/删除集群.md)
        * [使用管理网络窗口为网络指定一个特定的网络类型](集群/使用管理网络窗口为网络指定一个特定的网络类型.md)
